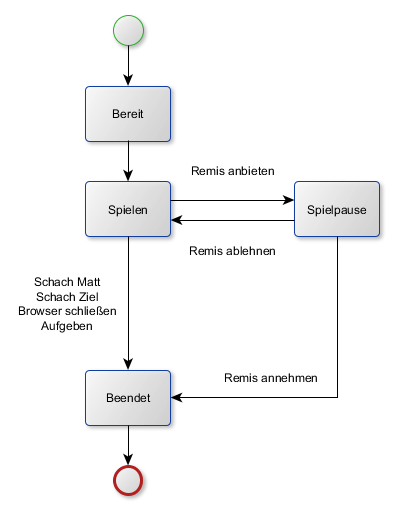
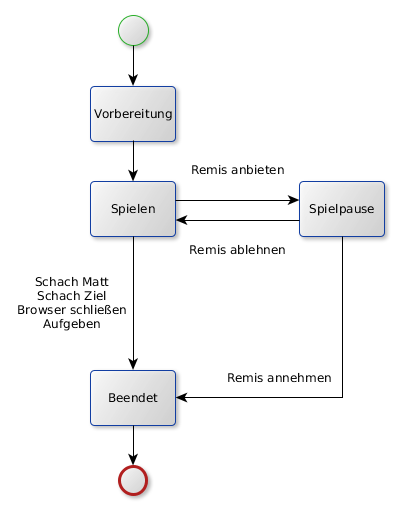
Refactoring game States: renamed 'ready' to 'preparing'

diff --git a/main/server/model/model.js b/main/server/model/model.js
@@ -42,10 +42,10 @@ var FigureType = {
 /**
  * The states that the match can have.
  *
- * @type {{READY: string, PAUSE: string, FINISHED: string, PLAYING: string}}
+ * @type {{PREPARING: string, PAUSE: string, FINISHED: string, PLAYING: string}}
  */
 var State = {
-    READY: "ready",
+    PREPARING: "preparing",
     PAUSE: "pause",
     FINISHED: "finished",
     PLAYING: "playing"
@@ -258,7 +258,7 @@ var Match = function (json) {
     }
 
     this.matchId = json.matchId;
-    this.state = json.state || State.READY;
+    this.state = json.state || State.PREPARING;
 
     this.history = [];
     // for every json-entry create a move instance.

diff --git a/main/server/model/model-factory.test.js b/main/server/model/model-factory.test.js
@@ -14,7 +14,7 @@ describe("modelFactory.createMatch", function () {
 
         assert.ok(match);
 
-        assert.equal(match.state, model.State.READY);
+        assert.equal(match.state, model.State.PREPARING);
 
         assert.isArray(match.history);
 

diff --git a/main/server/model/model-factory.js b/main/server/model/model-factory.js
@@ -72,7 +72,7 @@ var helper_createEmptyMatch = function(size){
     var match = new model.Match();
 
     match.size = size;
-    match.state = model.State.READY;
+    match.state = model.State.PREPARING;
 
     return match;
 }
